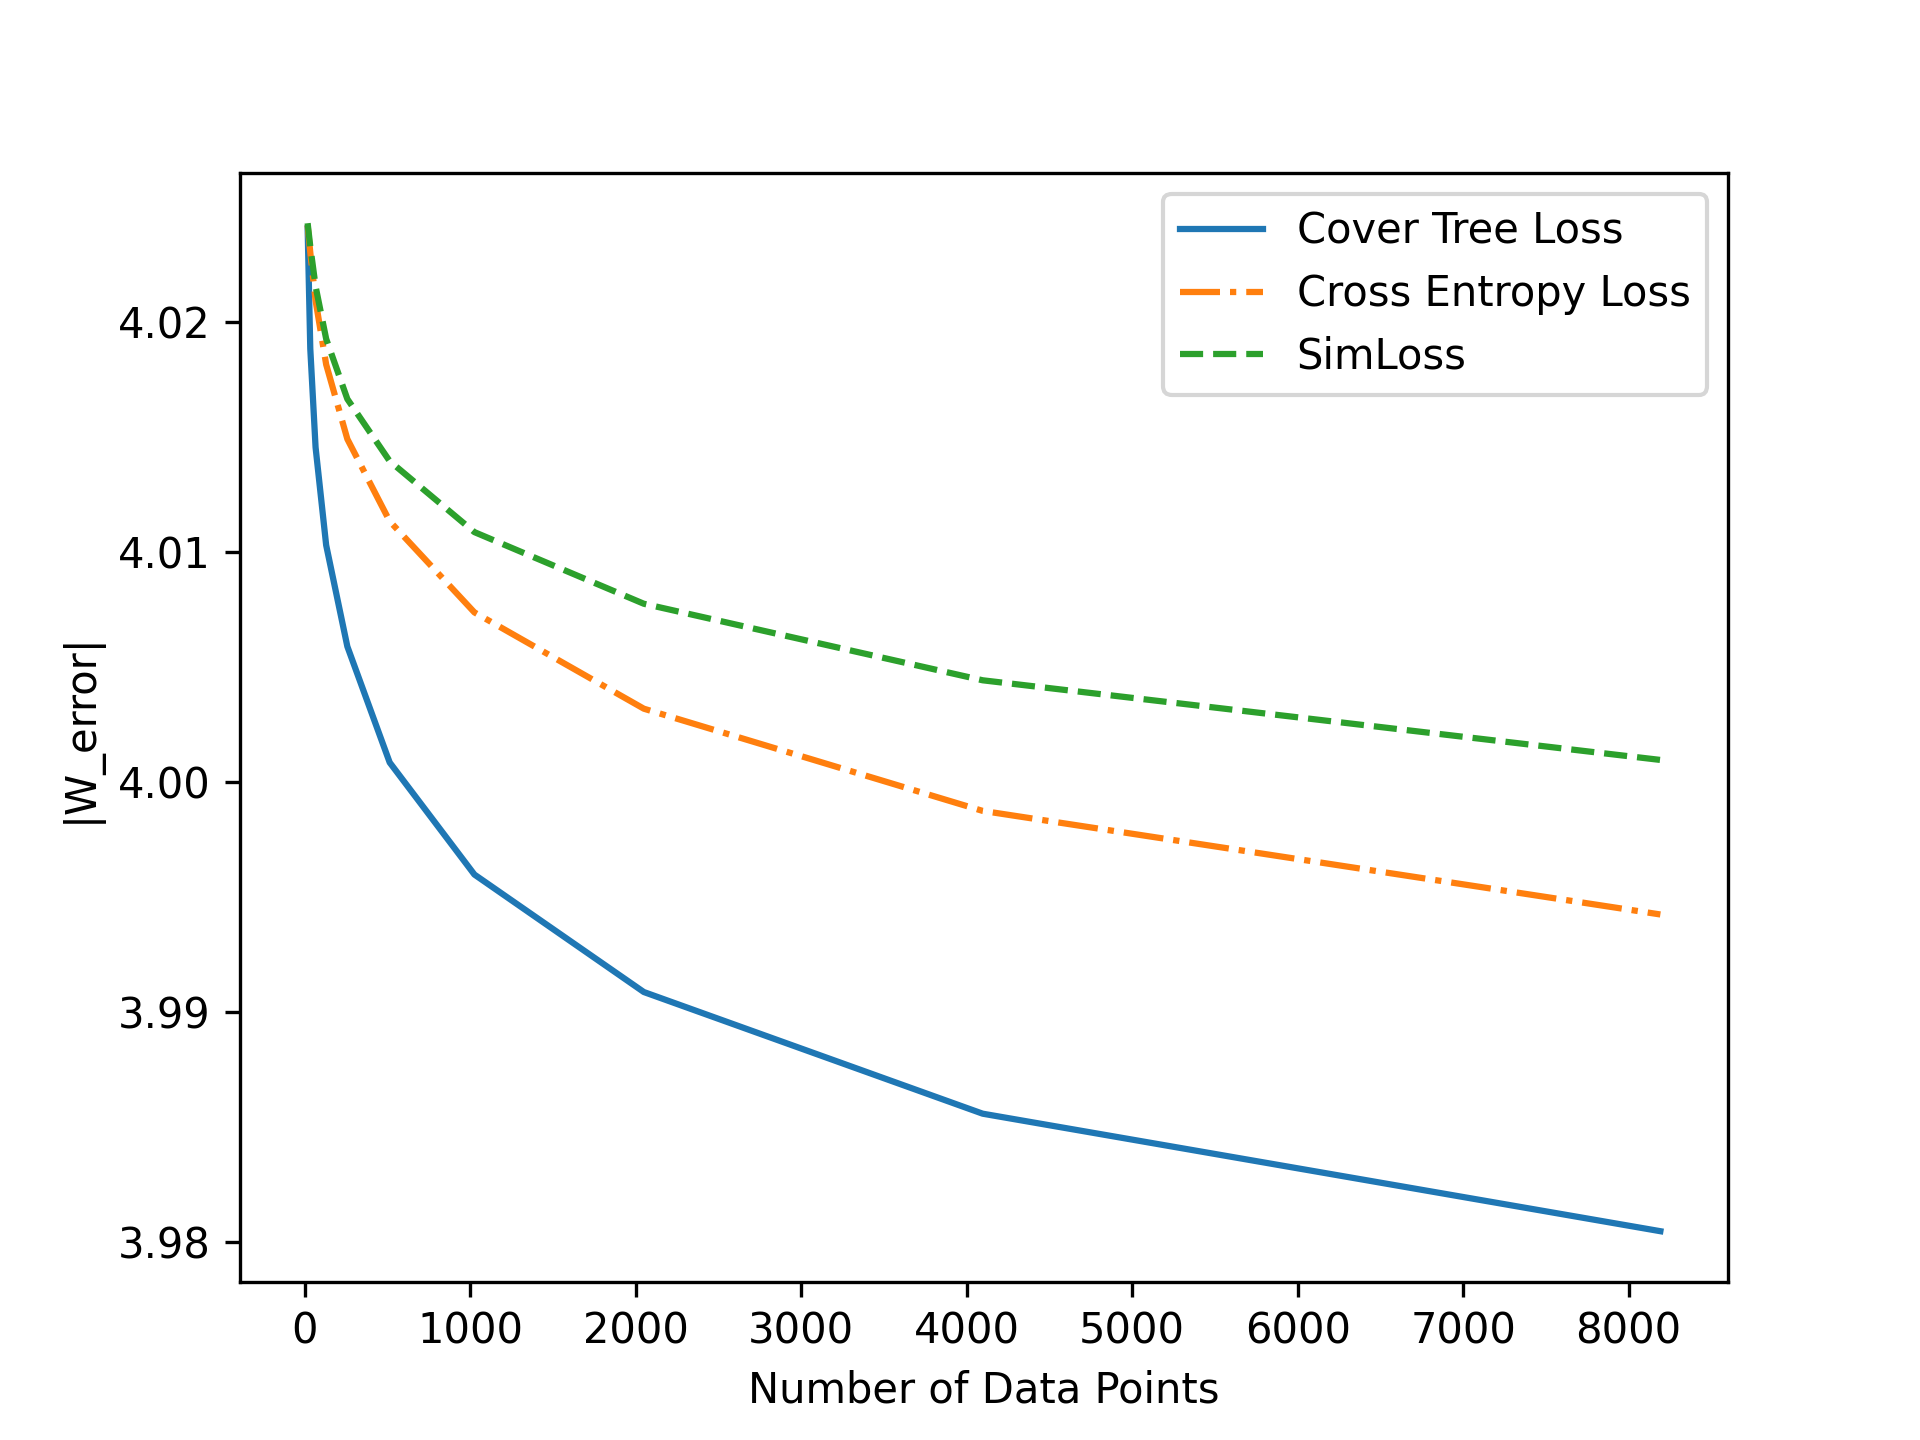
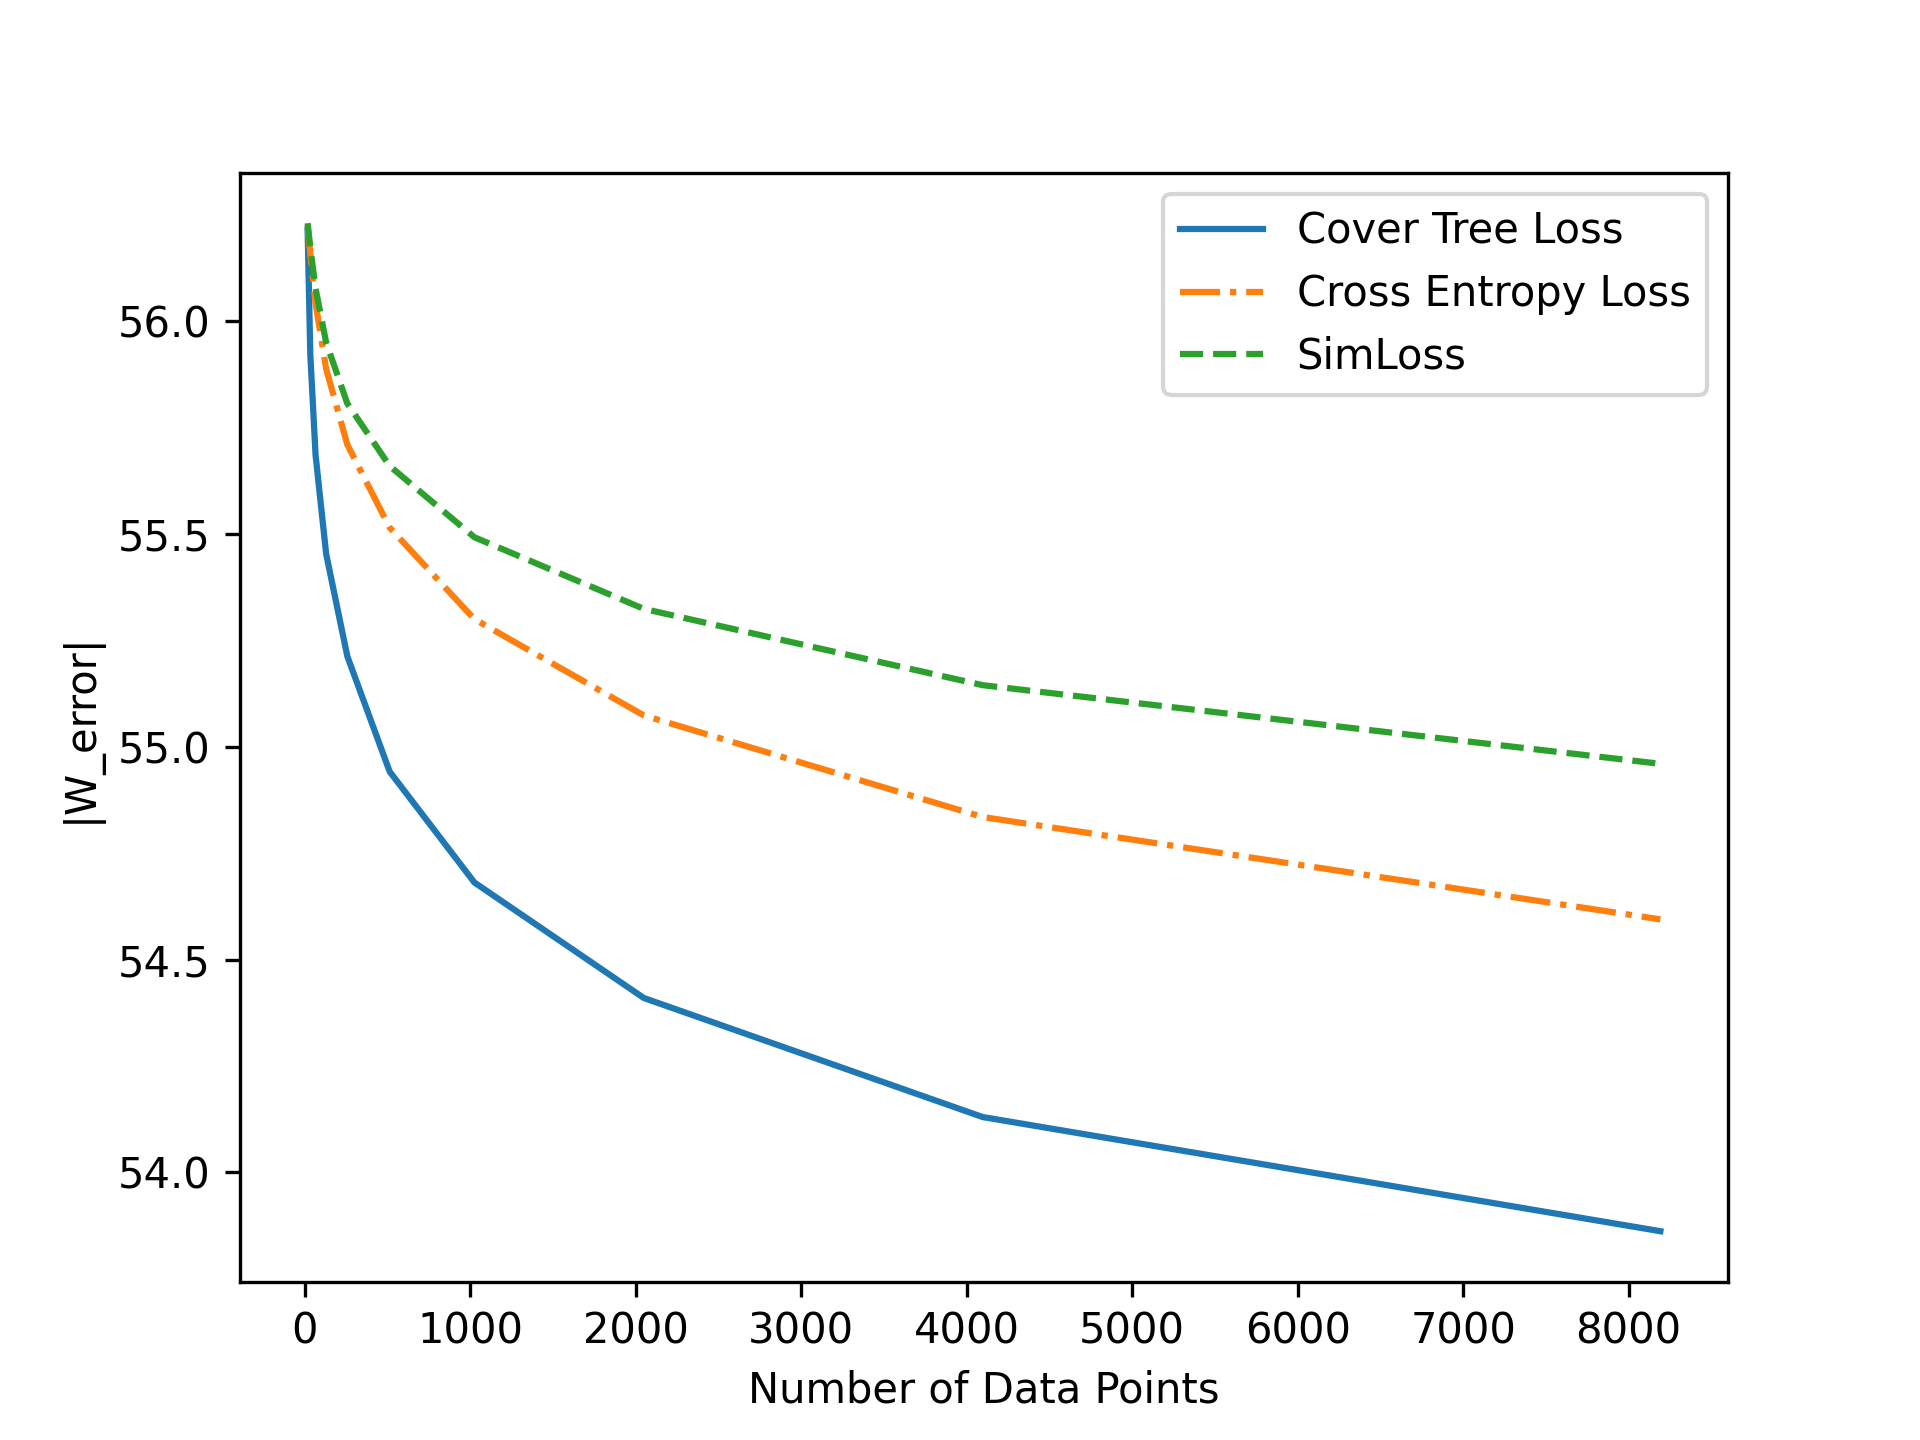
update abstract and images

diff --git a/experiments/synthetic/plot_figure.py b/experiments/synthetic/plot_figure.py
@@ -5,6 +5,7 @@ args = parser.parse_args()
 
 import matplotlib.pyplot as plt
 import numpy as np
+import math
 
 f_tree = open(f'{args.experiment}_tree.txt', 'r')
 f_xentropy = open(f'{args.experiment}_xentropy.txt', 'r')
@@ -125,14 +126,15 @@ for num in range(10):
     accuracy_simloss.append(np.mean(accuracy_mid))
 
 if args.experiment == 'loss_vs_n' :
-    x = [16,32, 64, 128, 256, 512, 1024, 2048, 4096, 8192]
+    x = [math.log(16), math.log(32), math.log(64), math.log(128), math.log(256), math.log(512), math.log(1024),
+         math.log(2048), math.log(4096), math.log(8192)]
     plt.figure(0)
     l1, = plt.plot(x, loss_tree)
     l2, = plt.plot(x, loss_xentropy, linestyle="-.")
     l3, = plt.plot(x, loss_simloss, linestyle="--")
     plt.legend(handles=[l1,l2,l3],labels=['Cover Tree Loss','Cross Entropy Loss', 'SimLoss'])
-    plt.xlabel('Number of Data Points')
-    plt.ylabel('Loss')
+    plt.xlabel('Log(Number of Data Points)')
+    plt.ylabel('Log(Loss)')
     plt.savefig('loss_vs_n.png', dpi=300)
 
     plt.figure(1)
@@ -140,8 +142,8 @@ if args.experiment == 'loss_vs_n' :
     l2, = plt.plot(x, W_err_xentropy, linestyle="-.")
     l3, = plt.plot(x, W_err_simloss, linestyle="--")
     plt.legend(handles=[l1,l2,l3],labels=['Cover Tree Loss','Cross Entropy Loss', 'SimLoss'])
-    plt.xlabel('Number of Data Points')
-    plt.ylabel('|W_error|')
+    plt.xlabel('Log(Number of Data Points)')
+    plt.ylabel('Log|W_error|')
     plt.savefig('error_vs_n.png', dpi=300)
 
     plt.figure(2)
@@ -149,33 +151,35 @@ if args.experiment == 'loss_vs_n' :
     l2, = plt.plot(x, accuracy_xentropy, linestyle="-.")
     l3, = plt.plot(x, accuracy_simloss, linestyle="--")
     plt.legend(handles=[l1,l2,l3],labels=['Cover Tree Loss','Cross Entropy Loss', 'SimLoss'])
-    plt.xlabel('Number of Data Points')
-    plt.ylabel('Accuracy')
+    plt.xlabel('Log(Number of Data Points)')
+    plt.ylabel('Log(Accuracy)')
     plt.savefig('accuracy_vs_n.png', dpi=300)
 
 
 if args.experiment == 'loss_vs_d':
-    x = [2, 4, 8, 16, 32, 64, 128, 256, 512, 1024]
+    x = [math.log(2), math.log(4), math.log(8), math.log(16), math.log(32), math.log(64), math.log(128), 
+        math.log(256), math.log(512), math.log(1024)]
     plt.figure(0)
     l1, = plt.plot(x, loss_tree)
     l2,= plt.plot(x, loss_xentropy, linestyle="-.")
     l3, = plt.plot(x, loss_simloss, linestyle="--")
     plt.legend(handles=[l1,l2,l3],labels=['Cover Tree Loss','Cross Entropy Loss', 'SimLoss'])
-    plt.xlabel('Dimension')
-    plt.ylabel('Loss')
+    plt.xlabel('Log(Dimension)')
+    plt.ylabel('Log(Loss)')
     plt.savefig('loss_vs_d.png', dpi=300)
 
-    diff_xentropy = np.array(W_err_tree) - np.array(W_err_xentropy)
-    diff_simloss = np.array(W_err_tree) - np.array(W_err_simloss)
+    diff_xentropy = np.array(W_err_xentropy) - np.array(W_err_tree)
+    diff_simloss = np.array(W_err_simloss) - np.array(W_err_tree) 
+    diff_tree = np.array(W_err_tree) - np.array(W_err_tree) 
     print(diff_xentropy)
     print(diff_simloss)
     plt.figure(1)
-    l1, = plt.plot(x, W_err_tree)
+    l1, = plt.plot(x, diff_tree)
     l2, = plt.plot(x, diff_xentropy, linestyle="-.")
     l3, = plt.plot(x, diff_simloss, linestyle="--")
     plt.legend(handles=[l1,l2,l3],labels=['Cover Tree Loss','Cross Entropy Loss', 'SimLoss'])
-    plt.xlabel('Dimension')
-    plt.ylabel('|W_error|')
+    plt.xlabel('Log(Dimension)')
+    plt.ylabel('Log|W_error|')
     plt.savefig('error_vs_d.png', dpi=300)
 
     plt.figure(2)
@@ -183,19 +187,20 @@ if args.experiment == 'loss_vs_d':
     l2, = plt.plot(x, accuracy_xentropy, linestyle="-.")
     l3, = plt.plot(x, accuracy_simloss, linestyle="--")
     plt.legend(handles=[l1,l2,l3],labels=['Cover Tree Loss','Cross Entropy Loss', 'SimLoss'])
-    plt.xlabel('Number of Data Points')
-    plt.ylabel('Accuracy')
+    plt.xlabel('Log(Number of Data Points)')
+    plt.ylabel('Log(Accuracy)')
     plt.savefig('accuracy_vs_d.png', dpi=300)
 
 if args.experiment == 'loss_vs_sigma':
-    x = [1.0, 1.25, 1.5, 1.75, 2.0, 2.25, 2.5, 2.75, 3.0, 3.25]
+    x = [math.log(1.0), math.log(1.25), math.log(1.5), math.log(1.75), math.log(2.0), math.log(2.25), 
+        math.log(2.5), math.log(2.75), math.log(3.0), math.log(3.25)]
     plt.figure(0)
     l1, = plt.plot(x, loss_tree)
     l2, = plt.plot(x, loss_xentropy, linestyle="-.")
     l3, = plt.plot(x, loss_simloss, linestyle="--")
     plt.legend(handles=[l1,l2,l3],labels=['Cover Tree Loss','Cross Entropy Loss', 'SimLoss'])
-    plt.xlabel('Randomness')
-    plt.ylabel('Loss')
+    plt.xlabel('Log(Randomness)')
+    plt.ylabel('Log(Loss)')
     plt.savefig('loss_vs_sigma.png', dpi=300)
 
     plt.figure(1)
@@ -203,8 +208,8 @@ if args.experiment == 'loss_vs_sigma':
     l2, = plt.plot(x, W_err_xentropy, linestyle="-.")
     l3, = plt.plot(x, W_err_simloss, linestyle="--")
     plt.legend(handles=[l1,l2,l3],labels=['Cover Tree Loss','Cross Entropy Loss', 'SimLoss'])
-    plt.xlabel('Randomness')
-    plt.ylabel('|W_error|')
+    plt.xlabel('Log(Randomness)')
+    plt.ylabel('Log|W_error|')
     plt.savefig('error_vs_sigma.png', dpi=300)
 
     plt.figure(2)
@@ -212,32 +217,34 @@ if args.experiment == 'loss_vs_sigma':
     l2, = plt.plot(x, accuracy_xentropy, linestyle="-.")
     l3, = plt.plot(x, accuracy_simloss, linestyle="--")
     plt.legend(handles=[l1,l2,l3],labels=['Cover Tree Loss','Cross Entropy Loss', 'SimLoss'])
-    plt.xlabel('Randomness')
-    plt.ylabel('Accuracy')
+    plt.xlabel('Log(Randomness)')
+    plt.ylabel('Log(Accuracy)')
     plt.savefig('accuracy_vs_sigma.png', dpi=300)
 
 if args.experiment == 'loss_vs_c':
-    x = [10, 20, 30, 40, 50, 60, 70, 80, 90, 100]
+    x = [math.log(10), math.log(20), math.log(30), math.log(40), math.log(50), math.log(60), math.log(70), 
+        math.log(80), math.log(90), math.log(100)]
     plt.figure(0)
     l1, = plt.plot(x, loss_tree)
     l2, = plt.plot(x, loss_xentropy, linestyle="-.")
     l3, = plt.plot(x, loss_simloss, linestyle="--")
     plt.legend(handles=[l1,l2,l3],labels=['Cover Tree Loss','Cross Entropy Loss', 'SimLoss'])
-    plt.xlabel('Number of Classes')
-    plt.ylabel('Loss')
+    plt.xlabel('Log(Number of Classes)')
+    plt.ylabel('Log(Loss)')
     plt.savefig('loss_vs_class.png', dpi=300)
 
-    diff_xentropy = np.array(W_err_tree) - np.array(W_err_xentropy)
-    diff_simloss = np.array(W_err_tree) - np.array(W_err_simloss)
+    diff_xentropy = np.array(W_err_xentropy) - np.array(W_err_tree)
+    diff_simloss = np.array(W_err_simloss) - np.array(W_err_tree)
+    diff_tree = np.array(W_err_tree) - np.array(W_err_tree)
     print(diff_xentropy)
     print(diff_simloss)
     plt.figure(1)
-    l1, = plt.plot(x, W_err_tree)
+    l1, = plt.plot(x, diff_tree)
     l2, = plt.plot(x, diff_xentropy, linestyle="-.")
     l3, = plt.plot(x, diff_simloss, linestyle="--")
     plt.legend(handles=[l1,l2,l3],labels=['Cover Tree Loss','Cross Entropy Loss', 'SimLoss'])
-    plt.xlabel('Number of Classes')
-    plt.ylabel('|W_error|')
+    plt.xlabel('Log(Number of Classes)')
+    plt.ylabel('Log|W_error|')
     plt.savefig('error_vs_class.png', dpi=300)
 
     plt.figure(2)
@@ -245,6 +252,6 @@ if args.experiment == 'loss_vs_c':
     l2, = plt.plot(x, accuracy_xentropy, linestyle="-.")
     l3, = plt.plot(x, accuracy_simloss, linestyle="--")
     plt.legend(handles=[l1,l2,l3],labels=['Cover Tree Loss','Cross Entropy Loss', 'SimLoss'])
-    plt.xlabel('Number of Classes')
-    plt.ylabel('Accuracy')
+    plt.xlabel('Log(Number of Classes)')
+    plt.ylabel('Log(Accuracy)')
     plt.savefig('accuracy_vs_class.png', dpi=300)

diff --git a/paper/paper.tex b/paper/paper.tex
@@ -91,6 +91,17 @@
 The Cover Tree Loss
 \end{center}
 
+\section{Abstract}
+Softmax Cross Entropy loss function is widely used in neural network multi-class classification tasks. 
+It treats every class equally while classes often have an inherent structure. We introduce cover tree loss function that build a cover tree structure between all classes by their similarities and provide the theoretical justification. 
+We reparameterize the weight matrix by the cover tree structure of classes.
+We compare cover tree loss with softmax cross entropy loss function on fully synthetic dataset and pseudo-synthetic dataset and real word dataset for multi-class classification tasks. 
+The cover tree loss outperforms than softmax cross entropy loss function on metrics.  
+
+\section{Introduction}
+When people do a standard multi-class classification task, the standard loss function is softmax cross entropy loss function.
+The softmax cross entropy loss function 
+
 \section{Notation}
 
 Assume we are solving a standard multi-class classification problem with $c$ classes and $d$ input feature dimensions.
@@ -522,7 +533,7 @@ Figure \ref{fig:synthetic-results} shows that the cover tree loss converges at a
     \subfigure{
         \label{Fig.sub.3}
         \includegraphics[width=0.3\textwidth]{fig/images/accuracy_vs_n.png}}
-    \caption{Loss value, parameter matrix error, accuracy versus number of data points(Dimension: 64, Randomness: 1.0, Number of Classes: 10)}
+    \caption{Loss value, parameter matrix error, accuracy versus number of data points($d=64, \sigma=1.0, c=10$)}
     \label{Fig.1}
     
     \subfigure{
@@ -534,7 +545,7 @@ Figure \ref{fig:synthetic-results} shows that the cover tree loss converges at a
     \subfigure{
         \label{Fig.sub.3}
         \includegraphics[width=0.3\textwidth]{fig/images/accuracy_vs_d.png}}
-    \caption{Loss value, parameter matrix error, accuracy versus dimension of parameter matrix(Number of Data Points: 100, Randomness: 1.0, Number of Classes: 10)}
+    \caption{Loss value, parameter matrix error, accuracy versus dimension of parameter matrix($n=100, \sigma=1.0, c=10$)}
     \label{Fig.2}
     
     \subfigure{
@@ -546,7 +557,7 @@ Figure \ref{fig:synthetic-results} shows that the cover tree loss converges at a
     \subfigure{
         \label{Fig.sub.3}
         \includegraphics[width=0.3\textwidth]{fig/images/accuracy_vs_sigma.png}}
-    \caption{Loss value, parameter matrix error, accuracy versus randomness(Number of Data Points: 100, Dimension: 64, Number of classes: 10)}
+    \caption{Loss value, parameter matrix error, accuracy versus randomness($n=100, d=64, c=10$)}
     \label{Fig.3}
 
     \subfigure{
@@ -558,7 +569,7 @@ Figure \ref{fig:synthetic-results} shows that the cover tree loss converges at a
     \subfigure{
         \label{Fig.sub.3}
         \includegraphics[width=0.3\textwidth]{fig/images/accuracy_vs_class.png}}
-    \caption{Loss value, parameter matrix error, accuracy versus number of classes(Number of Data Points: 100, Dimension: 64, Randomness: 1.0)}
+    \caption{Loss value, parameter matrix error, accuracy versus number of classes($n=100, d=64, \sigma=1.0$)}
     \label{Fig.4}
     
     \caption{
@@ -585,7 +596,7 @@ In a pseudo-synthetic dataset, we take a non-synthetic dataset and modify it.
 In order to compare the performance between classic cross entropy loss function and cover tree loss function, we need datasets which the classes have clear similarities.
 Besides, we would like to construct pseudo-synthetic datasets which we can control the similarities.
 The idea is we can generate the new classes from the original classes of datasets.
-It means only the labels are synthetic and the features are real.
+This impilies only the labels are synthetic and the features are real.
 We get the similarities of new classes from probability distribution and control the complexity of similarities by changing probability distribution. 
 
 For non-synthetic datasets that do not have specific similarities, we would build pseudo-synthetic datasets with similarities manually by following procedures. 

diff --git a/experiments/synthetic/run_experiment.py b/experiments/synthetic/run_experiment.py
@@ -192,5 +192,5 @@ logging.info('saving results')
 loss_log = math.log(loss+1e-10)
 W_err_log = math.log(W_err)
 accuracy_log = math.log(accuracy)
-with open(f'{args.experiment}_{args.loss}.txt', 'a') as f:
-    f.write(f'Loss: {loss_log} \t W_err: {W_err_log} \t Accuracy: {accuracy_log} \n')
+with open(f'{args.experiment}_{args.loss}_original.txt', 'a') as f:
+    f.write(f'Loss: {loss} \t W_err: {W_err} \t Accuracy: {accuracy} \n')
